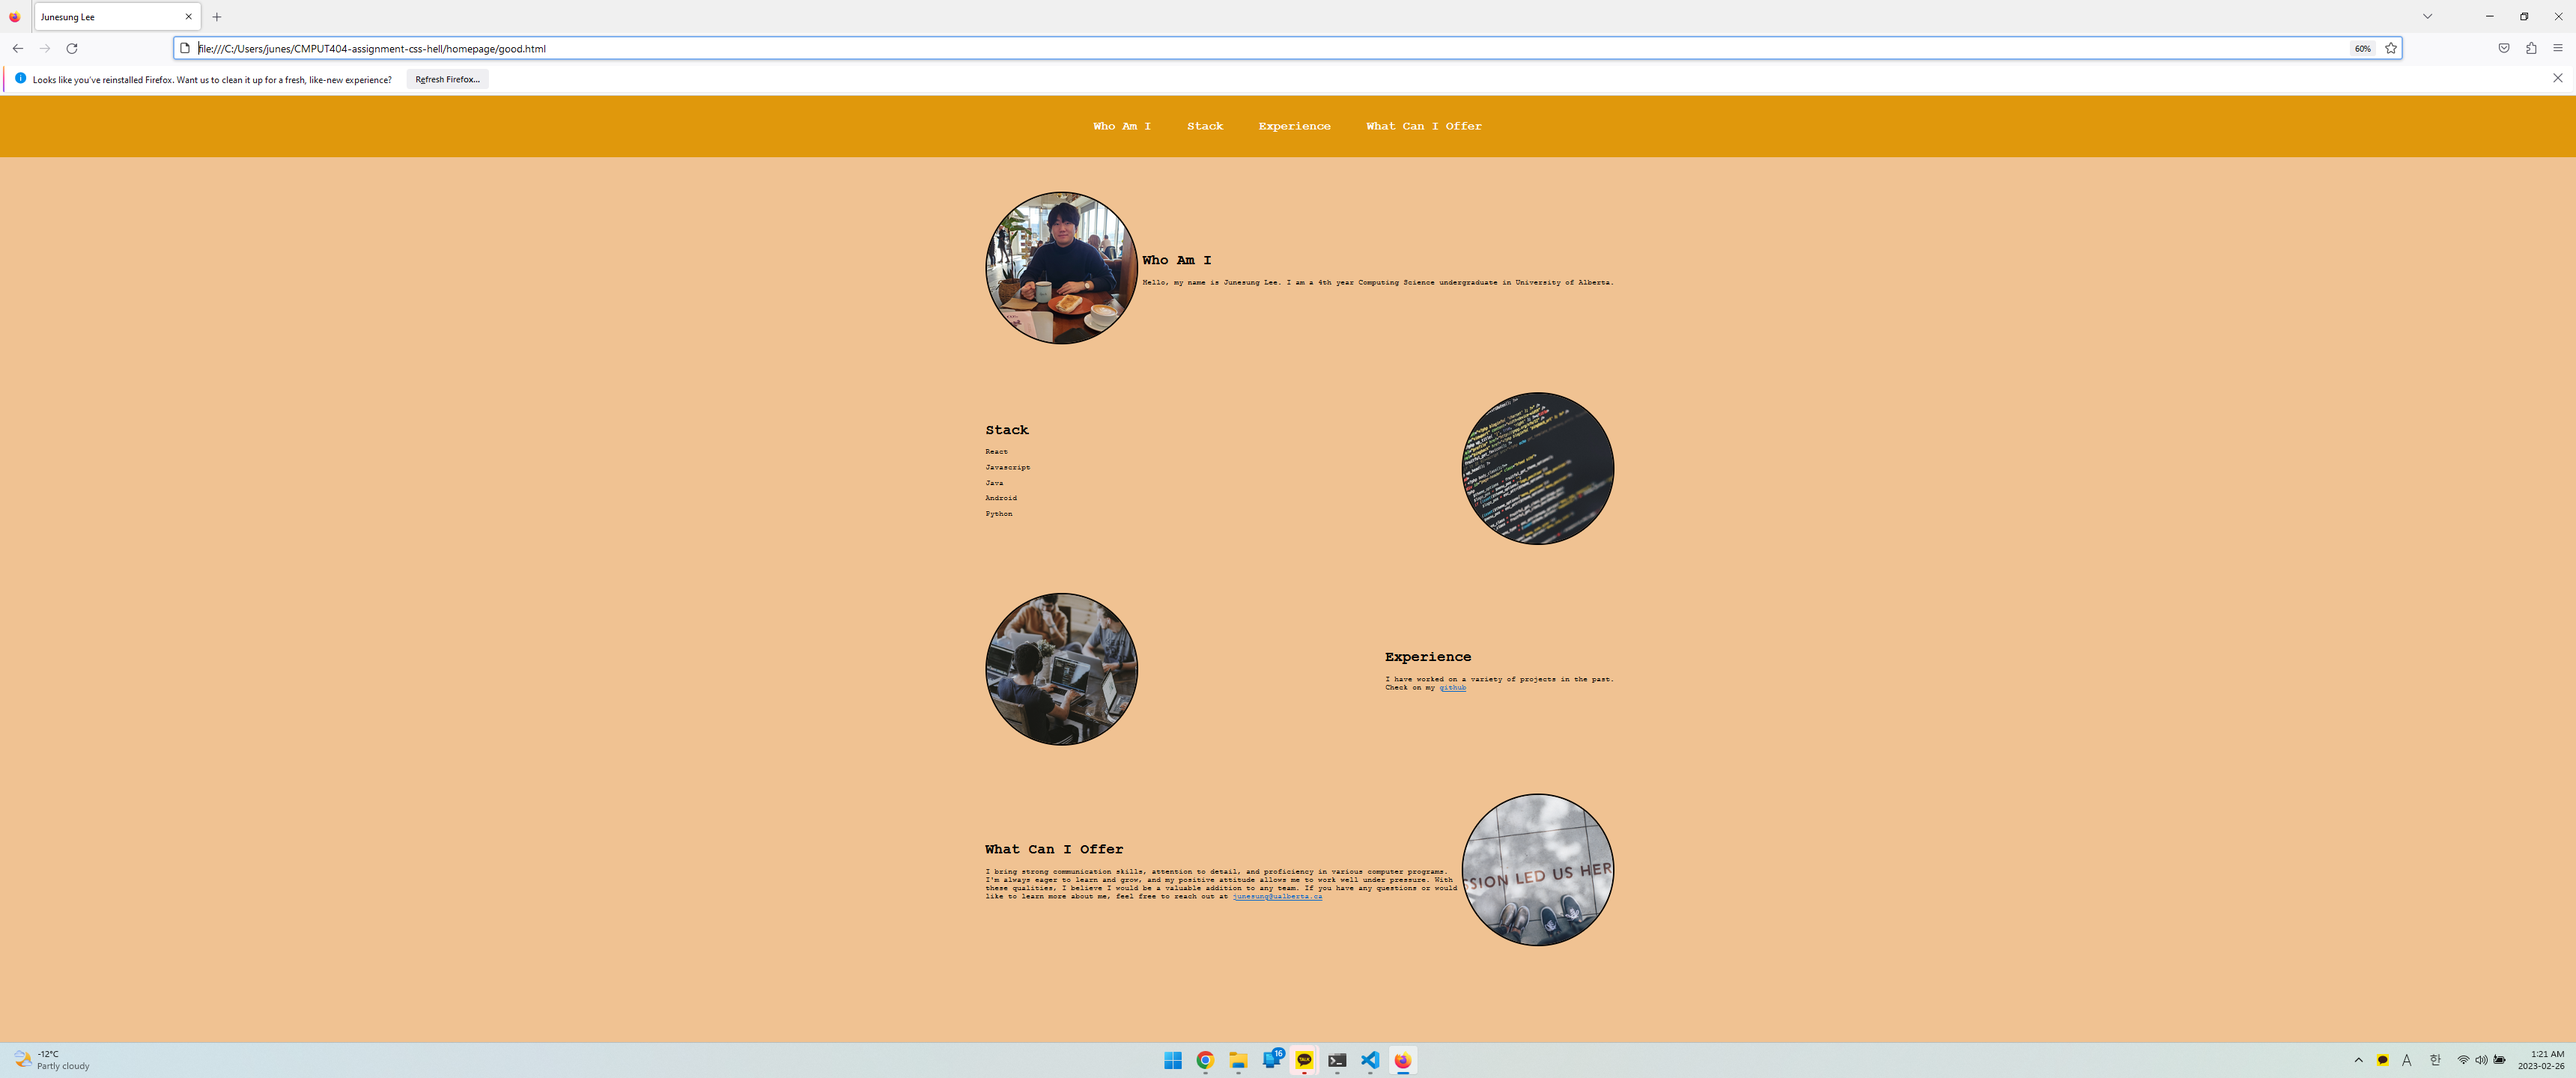
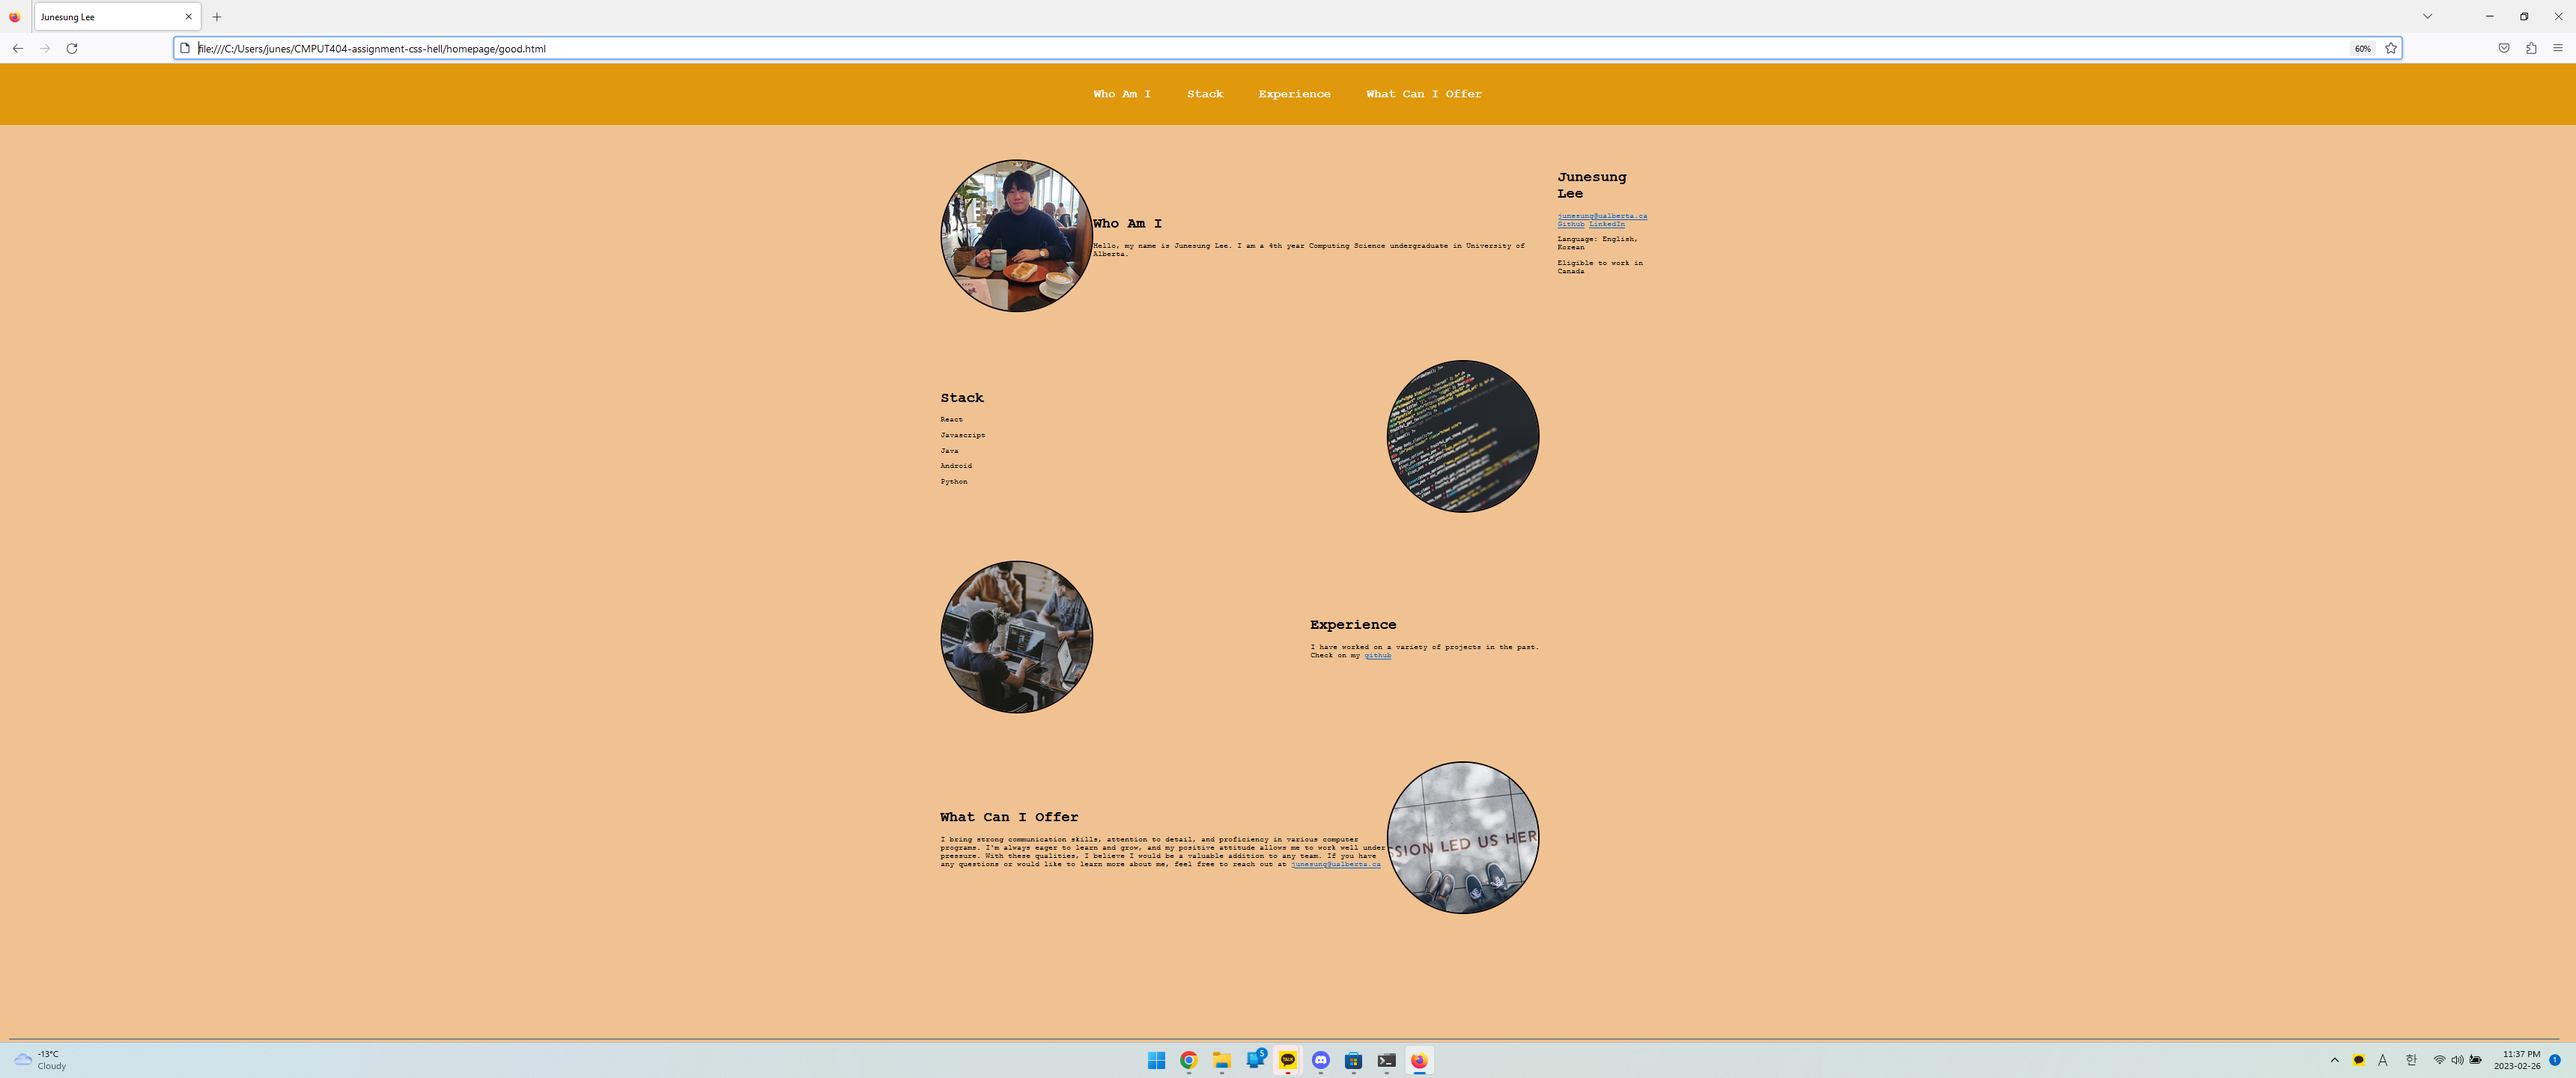
add sidebar and done!

diff --git a/homepage/good.html b/homepage/good.html
@@ -14,57 +14,74 @@
       <a href="#whatcanido">What Can I Offer</a>
     </div>
 
-    <div id="flexbox">
-      <div class="content" id="first">
-        <img id="me" src="me.jpg" alt="A photo of Junesung Lee" />
-        <div class="texts" id="whoami">
-          <h1>Who Am I</h1>
-          <p>
-            Hello, my name is Junesung Lee. I am a 4th year Computing Science
-            undergraduate in University of Alberta.
-          </p>
+    <div id="body">
+      <div id="content_box">
+        <div class="content" id="first">
+          <img id="me" src="me.jpg" alt="A photo of Junesung Lee" />
+          <div class="texts" id="whoami">
+            <h1>Who Am I</h1>
+            <p>
+              Hello, my name is Junesung Lee. I am a 4th year Computing Science
+              undergraduate in University of Alberta.
+            </p>
+          </div>
+        </div>
+        <div class="content" id="second">
+          <div class="texts" id="stack">
+            <h1>Stack</h1>
+            <p>React</p>
+            <p>Javascript</p>
+            <p>Java</p>
+            <p>Android</p>
+            <p>Python</p>
+          </div>
+          <img
+            id="stack_img"
+            src="stack.jpg"
+            alt="A photo of some code on monitor"
+          />
+        </div>
+        <div class="content" id="third">
+          <img src="experience.jpg" alt="A photo of people work" />
+          <div class="texts" id="experience">
+            <h1>Experience</h1>
+            <p>
+              I have worked on a variety of projects in the past. <br />Check on
+              my
+              <a href="https://github.com/Docker-J">github</a>
+            </p>
+          </div>
+        </div>
+        <div class="content" id="false">
+          <div class="text" id="whatcanido">
+            <h1>What Can I Offer</h1>
+            <p>
+              I bring strong communication skills, attention to detail, and
+              proficiency in various computer programs. I'm always eager to
+              learn and grow, and my positive attitude allows me to work well
+              under pressure. With these qualities, I believe I would be a
+              valuable addition to any team. If you have any questions or would
+              like to learn more about me, feel free to reach out at
+              <a href="junesung@ualberta.ca">junesung@ualberta.ca</a>
+            </p>
+          </div>
+          <img
+            id="passion_img"
+            src="passion.jpg"
+            alt="A photo of people work"
+          />
         </div>
       </div>
-      <div class="content" id="second">
-        <div class="texts" id="stack">
-          <h1>Stack</h1>
-          <p>React</p>
-          <p>Javascript</p>
-          <p>Java</p>
-          <p>Android</p>
-          <p>Python</p>
-        </div>
-        <img
-          id="stack_img"
-          src="stack.jpg"
-          alt="A photo of some code on monitor"
-        />
-      </div>
-      <div class="content" id="third">
-        <img src="experience.jpg" alt="A photo of people work" />
-        <div class="texts" id="experience">
-          <h1>Experience</h1>
-          <p>
-            I have worked on a variety of projects in the past. <br />Check on
-            my
-            <a href="https://github.com/Docker-J">github</a>
-          </p>
-        </div>
-      </div>
-      <div class="content" id="false">
-        <div class="text" id="whatcanido">
-          <h1>What Can I Offer</h1>
-          <p>
-            I bring strong communication skills, attention to detail, and
-            proficiency in various computer programs. I'm always eager to learn
-            and grow, and my positive attitude allows me to work well under
-            pressure. With these qualities, I believe I would be a valuable
-            addition to any team. If you have any questions or would like to
-            learn more about me, feel free to reach out at
-            <a href="junesung@ualberta.ca">junesung@ualberta.ca</a>
-          </p>
-        </div>
-        <img id="passion_img" src="passion.jpg" alt="A photo of people work" />
+
+      <div id="sidebar">
+        <h1>Junesung Lee</h1>
+        <a href="junesung@ualberta.ca">junesung@ualberta.ca</a>
+        <a href="https://github.com/Docker-J">Github</a>
+        <a href="https://www.linkedin.com/in/junesung-lee-791700117/"
+          >LinkedIn</a
+        >
+        <p>Language: English, Korean</p>
+        <p>Eligible to work in Canada</p>
       </div>
     </div>
   </body>

diff --git a/homepage/ugly.html b/homepage/ugly.html
@@ -14,57 +14,74 @@
       <a href="#whatcanido">What Can I Offer</a>
     </div>
 
-    <div id="flexbox">
-      <div class="content" id="first">
-        <img id="me" src="me.jpg" alt="A photo of Junesung Lee" />
-        <div class="texts" id="whoami">
-          <h1>Who Am I</h1>
-          <p>
-            Hello, my name is Junesung Lee. I am a 4th year Computing Science
-            undergraduate in University of Alberta.
-          </p>
+    <div id="body">
+      <div id="content_box">
+        <div class="content" id="first">
+          <img id="me" src="me.jpg" alt="A photo of Junesung Lee" />
+          <div class="texts" id="whoami">
+            <h1>Who Am I</h1>
+            <p>
+              Hello, my name is Junesung Lee. I am a 4th year Computing Science
+              undergraduate in University of Alberta.
+            </p>
+          </div>
+        </div>
+        <div class="content" id="second">
+          <div class="texts" id="stack">
+            <h1>Stack</h1>
+            <p>React</p>
+            <p>Javascript</p>
+            <p>Java</p>
+            <p>Android</p>
+            <p>Python</p>
+          </div>
+          <img
+            id="stack_img"
+            src="stack.jpg"
+            alt="A photo of some code on monitor"
+          />
+        </div>
+        <div class="content" id="third">
+          <img src="experience.jpg" alt="A photo of people work" />
+          <div class="texts" id="experience">
+            <h1>Experience</h1>
+            <p>
+              I have worked on a variety of projects in the past. <br />Check on
+              my
+              <a href="https://github.com/Docker-J">github</a>
+            </p>
+          </div>
+        </div>
+        <div class="content" id="false">
+          <div class="text" id="whatcanido">
+            <h1>What Can I Offer</h1>
+            <p>
+              I bring strong communication skills, attention to detail, and
+              proficiency in various computer programs. I'm always eager to
+              learn and grow, and my positive attitude allows me to work well
+              under pressure. With these qualities, I believe I would be a
+              valuable addition to any team. If you have any questions or would
+              like to learn more about me, feel free to reach out at
+              <a href="junesung@ualberta.ca">junesung@ualberta.ca</a>
+            </p>
+          </div>
+          <img
+            id="passion_img"
+            src="passion.jpg"
+            alt="A photo of people work"
+          />
         </div>
       </div>
-      <div class="content" id="second">
-        <div class="texts" id="stack">
-          <h1>Stack</h1>
-          <p>React</p>
-          <p>Javascript</p>
-          <p>Java</p>
-          <p>Android</p>
-          <p>Python</p>
-        </div>
-        <img
-          id="stack_img"
-          src="stack.jpg"
-          alt="A photo of some code on monitor"
-        />
-      </div>
-      <div class="content" id="third">
-        <img src="experience.jpg" alt="A photo of people work" />
-        <div class="texts" id="experience">
-          <h1>Experience</h1>
-          <p>
-            I have worked on a variety of projects in the past. <br />Check on
-            my
-            <a href="https://github.com/Docker-J">github</a>
-          </p>
-        </div>
-      </div>
-      <div class="content" id="false">
-        <div class="text" id="whatcanido">
-          <h1>What Can I Offer</h1>
-          <p>
-            I bring strong communication skills, attention to detail, and
-            proficiency in various computer programs. I'm always eager to learn
-            and grow, and my positive attitude allows me to work well under
-            pressure. With these qualities, I believe I would be a valuable
-            addition to any team. If you have any questions or would like to
-            learn more about me, feel free to reach out at
-            <a href="junesung@ualberta.ca">junesung@ualberta.ca</a>
-          </p>
-        </div>
-        <img id="passion_img" src="passion.jpg" alt="A photo of people work" />
+
+      <div id="sidebar">
+        <h1>Junesung Lee</h1>
+        <a href="junesung@ualberta.ca">junesung@ualberta.ca</a>
+        <a href="https://github.com/Docker-J">Github</a>
+        <a href="https://www.linkedin.com/in/junesung-lee-791700117/"
+          >LinkedIn</a
+        >
+        <p>Language: English, Korean</p>
+        <p>Eligible to work in Canada</p>
       </div>
     </div>
   </body>

diff --git a/homepage/ugly.css b/homepage/ugly.css
@@ -29,10 +29,12 @@ body {
   text-decoration: none;
 }
 
-#flexbox {
+#body {
   position: absolute;
   left: 50%;
   transform: translateX(-50%);
+  display: flex;
+  flex-direction: column;
   width: 80%;
   max-width: 1400px;
   margin-top: 160pt;
@@ -40,10 +42,13 @@ body {
 
 .content {
   width: 100%;
-  margin-left: 20pt;
-  margin-right: 20pt;
   color: pink;
   background-color: black;
+}
+
+#sidebar {
+  color: orange;
+  background-color: white;
 }
 
 img {

diff --git a/homepage/good.css b/homepage/good.css
@@ -27,13 +27,24 @@ body {
   text-decoration: none;
 }
 
-#flexbox {
+#body {
   position: absolute;
+  display: flex;
+  flex-direction: row;
   left: 50%;
   transform: translateX(-50%);
-  width: 80%;
-  max-width: 1400px;
+  width: 90%;
+  max-width: 1600px;
   margin-top: 160pt;
+}
+
+#content_box {
+  flex-grow: 3;
+  margin-right: 50pt;
+}
+
+#sidebar {
+  flex-grow: 1;
 }
 
 .content {
